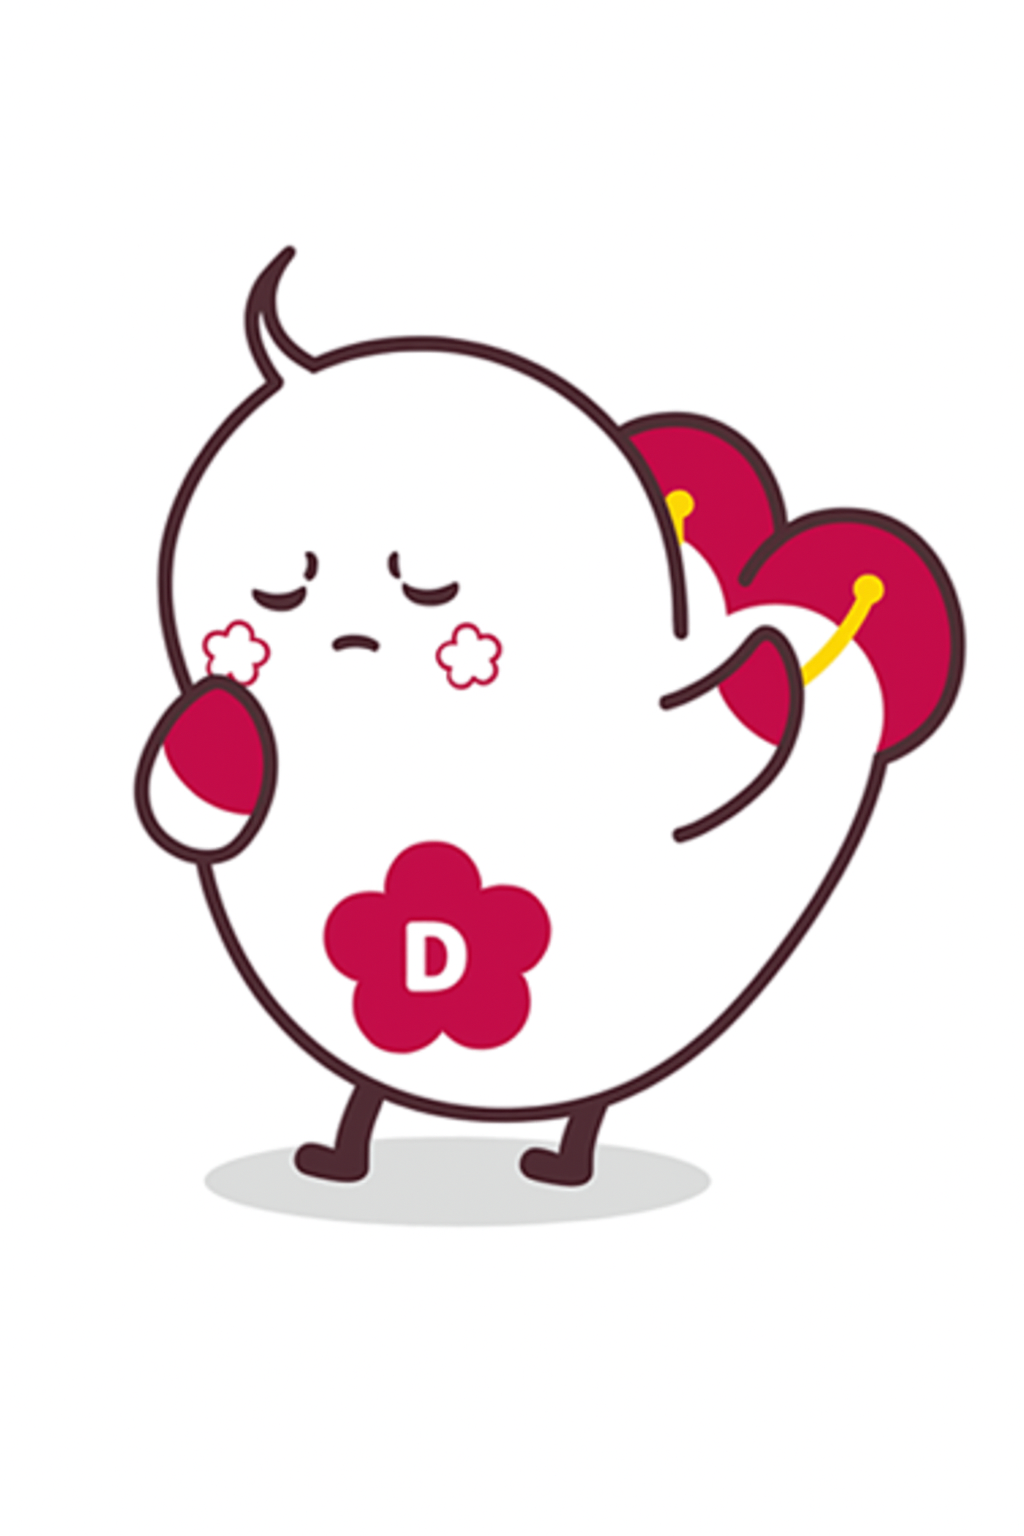
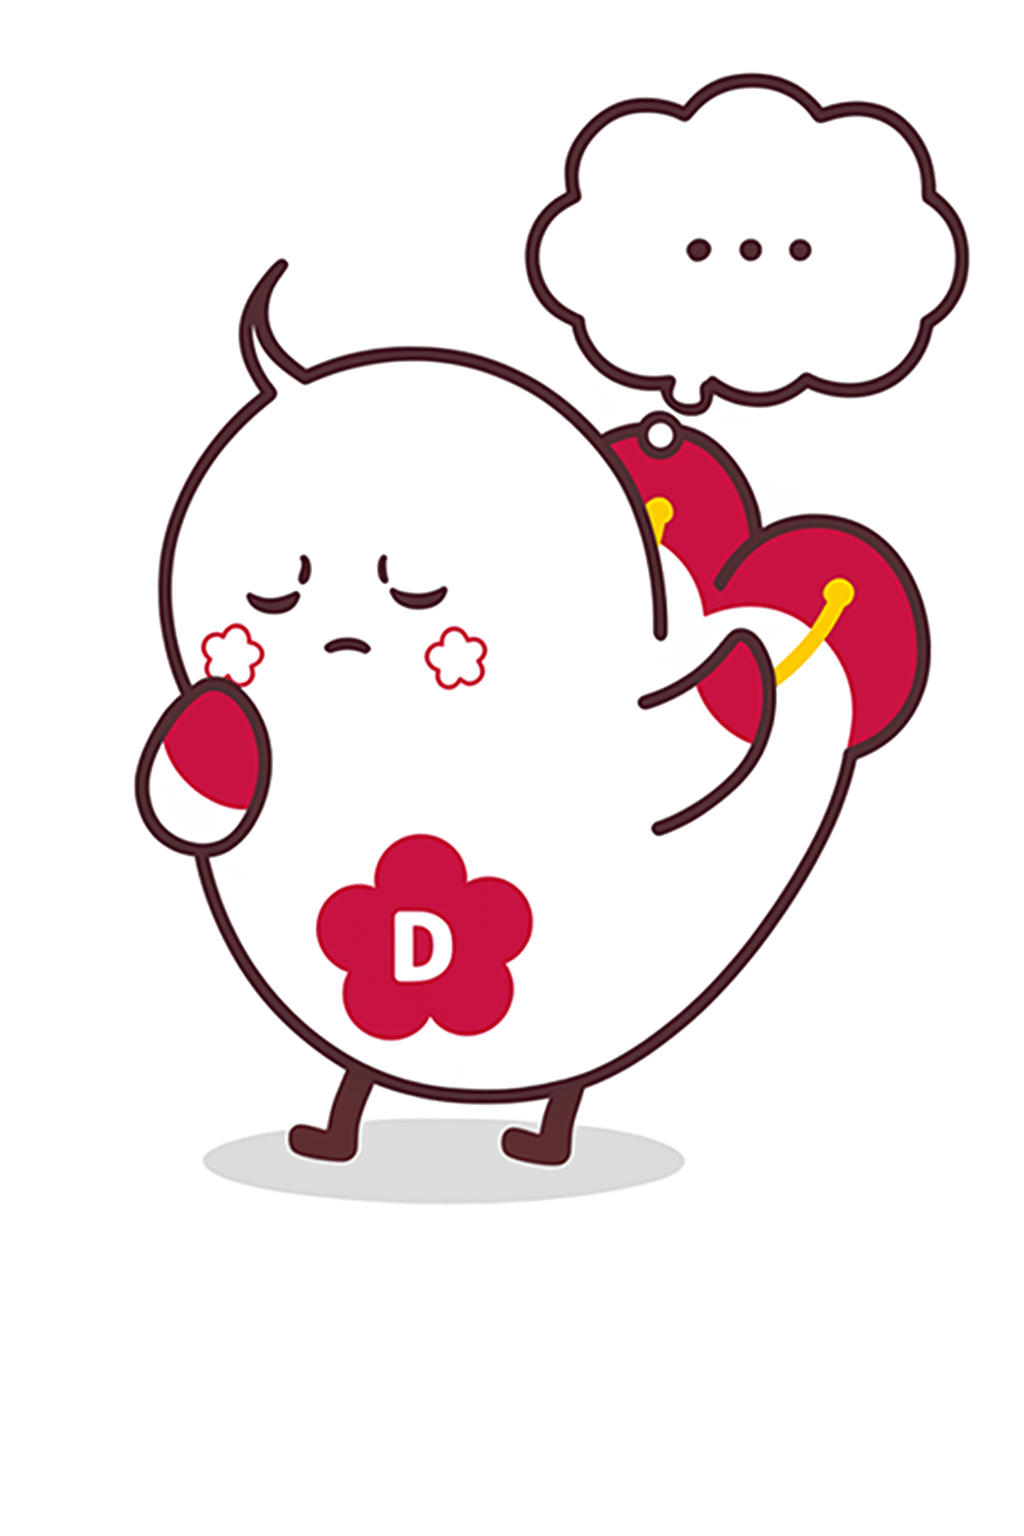
이미지와 인덱스 수정

diff --git a/index.html b/index.html
@@ -20,7 +20,7 @@
       <label for="partner">누구와 놀고 싶나요? (예: 혼자, 친구, 가족, 연인 등)</label>
       <input type="text" id="partner" name="partner" required />
 
-      <button type="submit">AI 놀이 추천 받기</button>
+      <button type="submit">덕새에게 놀이 추천 받기</button>
     </form>
     <div id="result"></div>
   </div>
